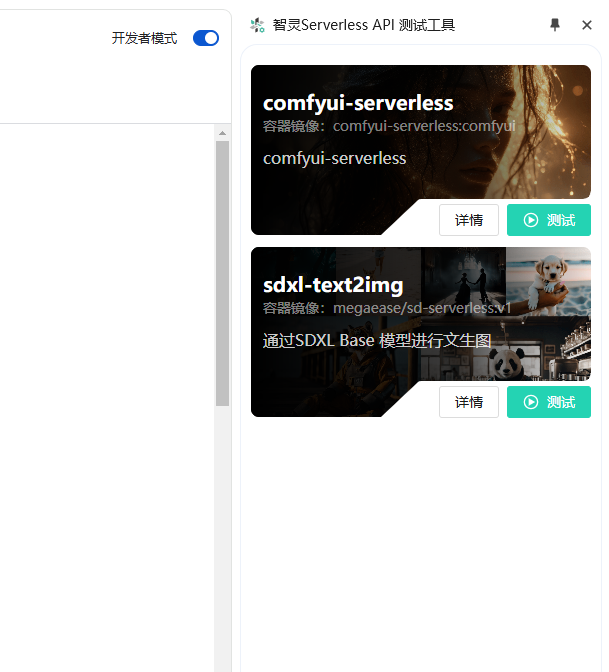
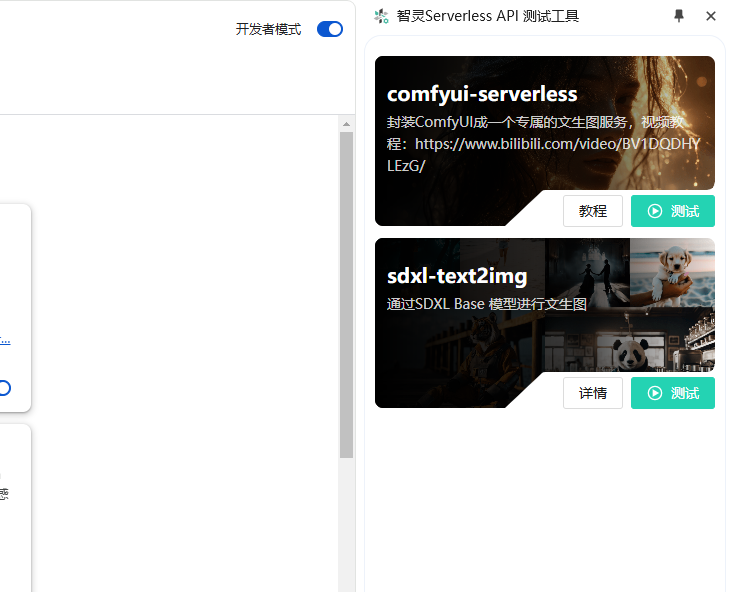
更新教程 (#5)
* feat: 新增开发版本区分

* feat: 更新教程图片

diff --git a/chrome-extension/vite.config.ts b/chrome-extension/vite.config.ts
@@ -3,69 +3,76 @@ import { fileURLToPath, URL } from "node:url";
 import { defineConfig } from "vite";
 import vue from "@vitejs/plugin-vue";
 import { crx } from "@crxjs/vite-plugin";
-import manifest from "./manifest.json" assert { type: "json" };
+import manifest from "./manifest.json";
 import { resolve } from "node:path";
 import AutoImport from "unplugin-auto-import/vite";
 import Components from "unplugin-vue-components/vite";
 import { TDesignResolver } from "unplugin-vue-components/resolvers";
 
 // https://vite.dev/config/
-export default defineConfig({
-	plugins: [
-		vue(),
-		crx({ manifest }),
-		AutoImport({
-			imports: ["vue", "vue-router"],
-			resolvers: [
-				TDesignResolver({
-					library: "vue-next"
-				})
-			],
-			dts: "types/auto-imports.d.ts",
-			eslintrc: {
-				enabled: true,
-				filepath: "./.eslintrc-auto-import.cjs",
-				globalsPropValue: true
-			}
-		}),
-		Components({
-			resolvers: [
-				TDesignResolver({
-					library: "vue-next"
-				})
-			],
-			dts: "types/components.d.ts"
-		})
-	],
-	resolve: {
-		alias: {
-			"@": fileURLToPath(new URL("./src", import.meta.url)),
-			"@side-panel": fileURLToPath(new URL("./src/side-panel", import.meta.url))
-		}
-	},
-	css: {
-		preprocessorOptions: {
-			scss: {
-				additionalData: `
-        @use '@/styles/variables' as *;
-        @use '@/styles/mixins' as *;
-        `,
-				// TODO: scss语法过旧警告
-				silenceDeprecations: ["legacy-js-api"]
-			}
-		}
-	},
-	build: {
-		outDir: "dist",
-		rollupOptions: {
-			input: {
-				"side-panel": resolve(__dirname, "./src/side-panel/index.html")
-			},
-			output: {
-				assetFileNames: "assets/[name]-[hash].[ext]", // 静态资源
-				chunkFileNames: "js/[name]-[hash].js", // 代码分割中产生的 chunk
-				entryFileNames: "js/[name]-[hash].js"
-			}
-		}
+export default defineConfig(() => {
+	// 开发环境
+	if (process.env.NODE_ENV === "development") {
+		manifest.name = `开发：${manifest.name}`;
 	}
+
+	return {
+		plugins: [
+			vue(),
+			crx({ manifest }),
+			AutoImport({
+				imports: ["vue", "vue-router"],
+				resolvers: [
+					TDesignResolver({
+						library: "vue-next"
+					})
+				],
+				dts: "types/auto-imports.d.ts",
+				eslintrc: {
+					enabled: true,
+					filepath: "./.eslintrc-auto-import.cjs",
+					globalsPropValue: true
+				}
+			}),
+			Components({
+				resolvers: [
+					TDesignResolver({
+						library: "vue-next"
+					})
+				],
+				dts: "types/components.d.ts"
+			})
+		],
+		resolve: {
+			alias: {
+				"@": fileURLToPath(new URL("./src", import.meta.url)),
+				"@side-panel": fileURLToPath(new URL("./src/side-panel", import.meta.url))
+			}
+		},
+		css: {
+			preprocessorOptions: {
+				scss: {
+					additionalData: `
+					@use '@/styles/variables' as *;
+					@use '@/styles/mixins' as *;
+					`,
+					// TODO: scss语法过旧警告
+					silenceDeprecations: ["legacy-js-api"]
+				}
+			}
+		},
+		build: {
+			outDir: "dist",
+			rollupOptions: {
+				input: {
+					"side-panel": resolve(__dirname, "./src/side-panel/index.html")
+				},
+				output: {
+					assetFileNames: "assets/[name]-[hash].[ext]", // 静态资源
+					chunkFileNames: "js/[name]-[hash].js", // 代码分割中产生的 chunk
+					entryFileNames: "js/[name]-[hash].js"
+				}
+			}
+		}
+	};
 });
